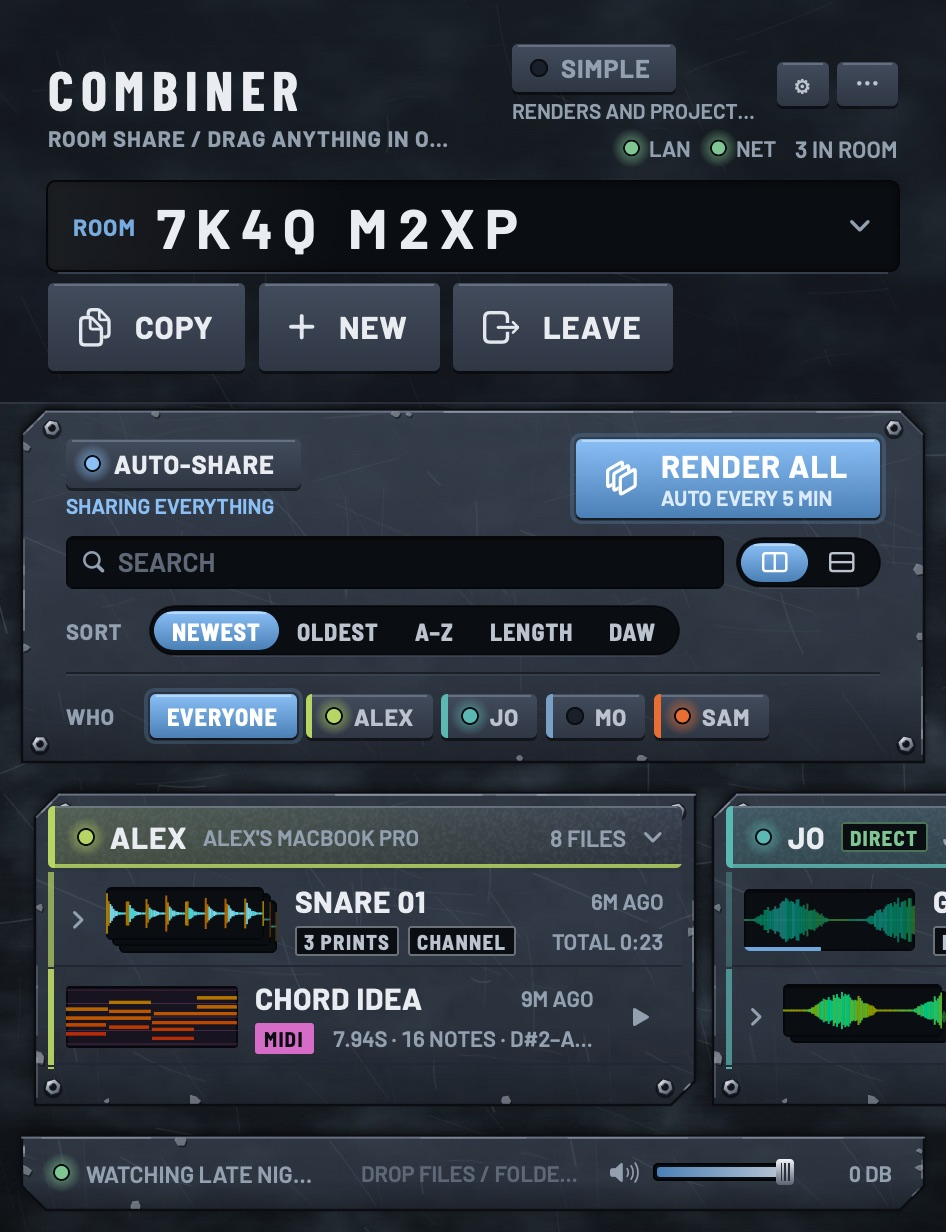
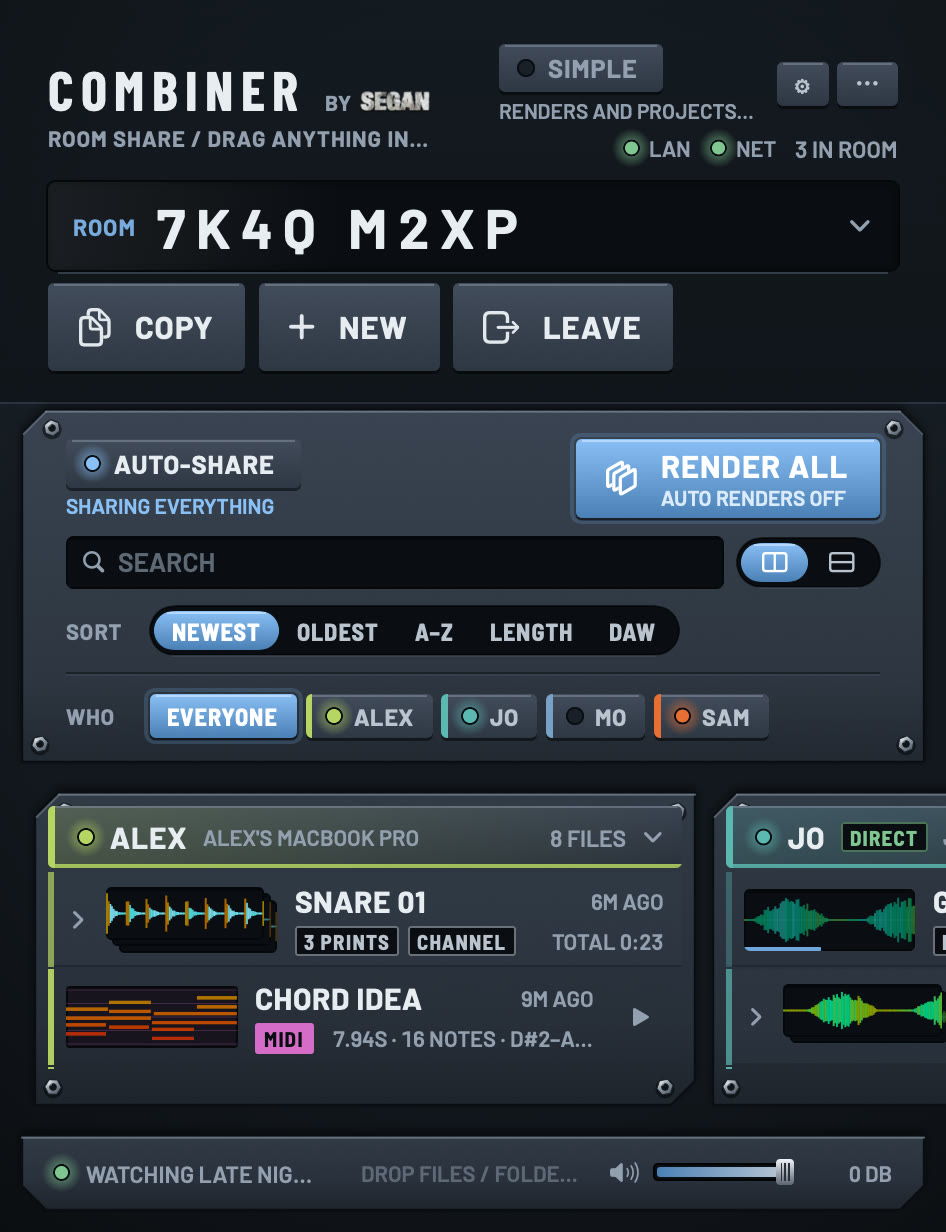
Combiner 0.13.0

diff --git a/index.html b/index.html
@@ -39,15 +39,14 @@
     * { box-sizing: border-box; }
     html, body { margin: 0; }
     body { background: var(--chassis); color: var(--text); font: 600 17px/1.5 var(--sans); -webkit-font-smoothing: antialiased; }
-    /* The chassis, cover-fitted from the top as the app draws it, with its one
-       cold light from above and the corners falling off into shadow. On its
+    /* The chassis, clean as the app draws it by default: flat steel under its
+       one cold light from above, the corners falling off into shadow. On its
        own fixed layer, so a long page on a phone doesn't stretch it. */
     body::before {
       content: ""; position: fixed; inset: 0; z-index: -1;
       background:
         radial-gradient(farthest-corner at 50% 42%, transparent 55%, rgba(0, 0, 0, 0.55)),
         linear-gradient(rgba(159, 198, 238, 0.1), rgba(159, 198, 238, 0) 45%),
-        url("ColdSteelChassis.jpg") center top / cover no-repeat,
         var(--chassis);
     }
     main { max-width: 840px; margin: 0 auto; padding: 48px 16px 64px; }
@@ -77,8 +76,8 @@
     .shot img { display: block; width: 100%; height: auto; border-radius: 10px; box-shadow: 0 0 0 1px rgba(0, 0, 0, 0.6), 0 22px 50px rgba(0, 0, 0, 0.55); }
 
     /* A slate module: chamfered top left and bottom right, bolted at each
-       corner, the panel's steel under its face, grime toward the bottom and a
-       lit top edge (ModulePainter.paint). */
+       corner, lit from above, a soft shade toward the bottom and a lit top
+       edge (ModulePainter.paint, clean). */
     .module { position: relative; isolation: isolate; margin: 0 0 18px; padding: 24px 28px; filter: drop-shadow(0 4px 5px rgba(0, 0, 0, 0.6)); }
     .module::before, .module::after {
       content: ""; position: absolute; z-index: -1;
@@ -93,10 +92,8 @@
         var(--bolt) right 8px bottom 2px / 12px no-repeat,
         var(--bolt) left 2px bottom 2px / 12px no-repeat,
         linear-gradient(rgba(125, 136, 153, 0.75), rgba(125, 136, 153, 0.75)) top / 100% 1px no-repeat,
-        linear-gradient(rgba(5, 7, 10, 0), rgba(5, 7, 10, 0.32)) bottom / 100% 40px no-repeat,
-        linear-gradient(rgba(50, 58, 71, 0.4), rgba(43, 50, 62, 0.4) 50%, rgba(37, 43, 53, 0.4)),
-        url("ColdSteelPanel.jpg") 0 0 / 256px,
-        var(--slate);
+        linear-gradient(rgba(5, 7, 10, 0), rgba(5, 7, 10, 0.2)) bottom / 100% 40px no-repeat,
+        linear-gradient(#323a47, #2b323e 50%, #252b35);
     }
     .pair { display: grid; grid-template-columns: 1fr 1fr; gap: 18px; margin: 0 0 18px; }
     .pair .module { margin: 0; }
